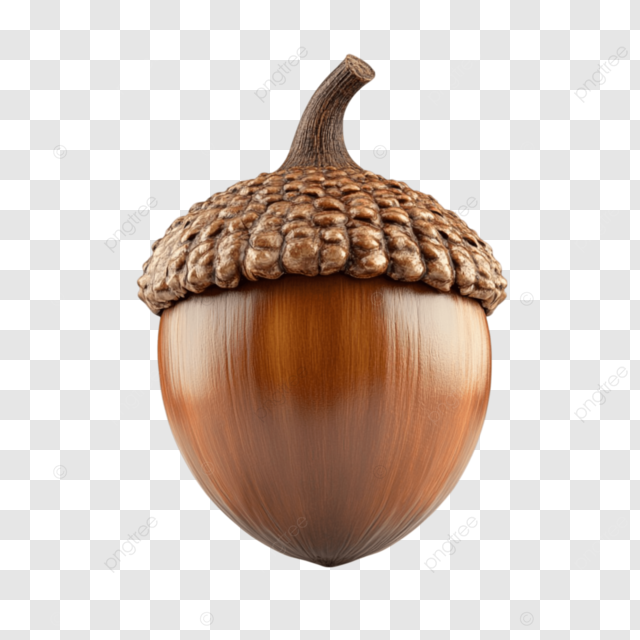
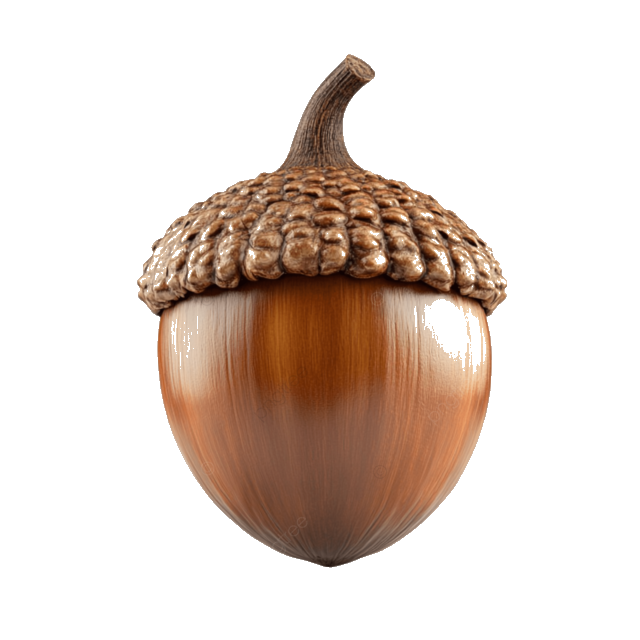
fix: replace acorn image with clean transparent PNG version
Changes:
- Updated acorn.png to RGBA format (with alpha channel)
- Removed dark background and golden frame
- Now shows only the acorn on transparent background
- File size: 237KB (640x640 RGBA)
- Removed mix-blend-screen workaround (no longer needed)
- Enhanced drop-shadow effects for premium glow
- Larger responsive sizes for better visibility

Result:
✅ Clean 3D acorn with realistic texture
✅ Transparent background blends perfectly with hero section
✅ Golden glow effects work beautifully
✅ Interactive hover and float animations maintained

diff --git a/app/components/ModernHero.tsx b/app/components/ModernHero.tsx
@@ -137,12 +137,12 @@ export default function ModernHero() {
                           animate-glow-pulse-inner"></div>
             
             {/* Сам желудь с фильтрами - адаптивный размер */}
-            <div className="relative w-24 h-24 sm:w-32 sm:h-32 md:w-40 md:h-40 lg:w-48 lg:h-48 drop-shadow-2xl 
+            <div className="relative w-32 h-32 sm:w-40 sm:h-40 md:w-48 md:h-48 lg:w-56 lg:h-56 drop-shadow-2xl 
                           transform group-hover/acorn:scale-110 transition-all duration-300 
                           filter brightness-110 contrast-110
                           group-hover/acorn:brightness-125 group-hover/acorn:contrast-125"
                  style={{
-                   filter: 'drop-shadow(0 0 15px rgba(255, 215, 0, 0.6)) drop-shadow(0 0 30px rgba(255, 193, 37, 0.4)) drop-shadow(0 0 45px rgba(255, 140, 0, 0.3))',
+                   filter: 'drop-shadow(0 0 20px rgba(255, 215, 0, 0.8)) drop-shadow(0 0 40px rgba(255, 193, 37, 0.5)) drop-shadow(0 0 60px rgba(255, 140, 0, 0.3))',
                  }}>
               <Image 
                 src="/images/acorn.png"
